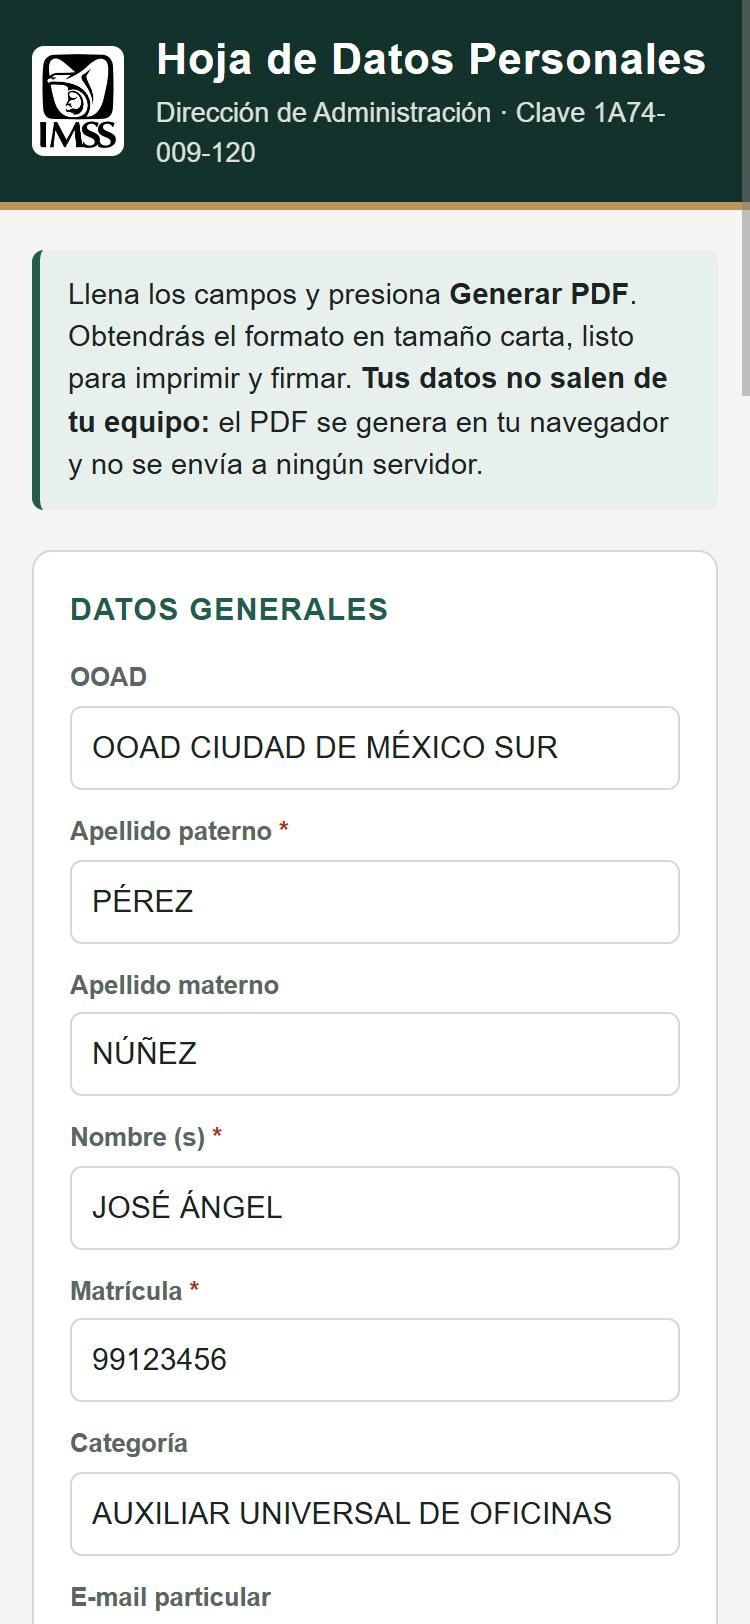
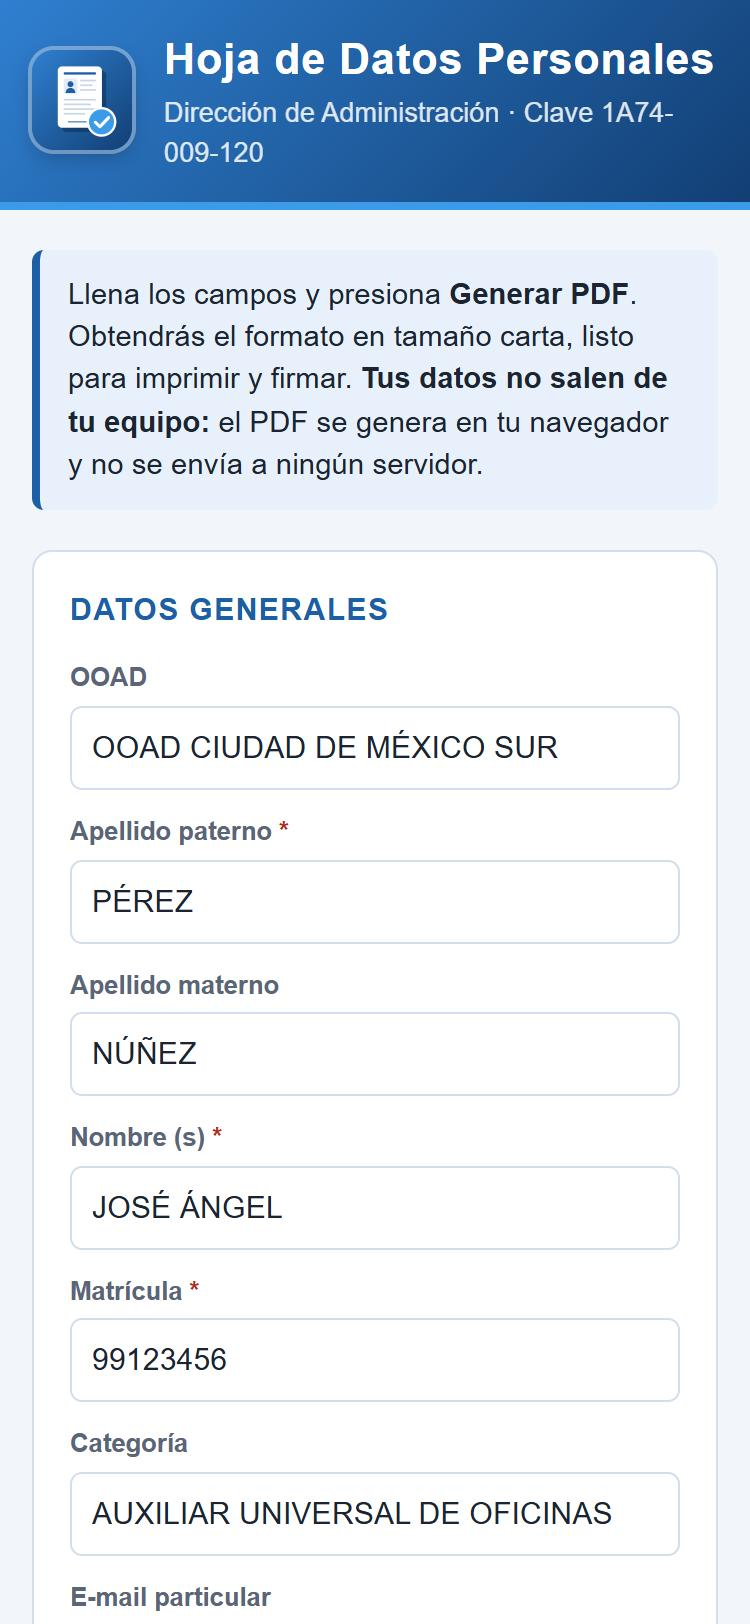
Icono del proyecto en el encabezado y captura actualizada
- El encabezado usa el icono azul (assets/logo.svg) en lugar del logo IMSS
  en blanco y negro; el logo IMSS sigue en la plantilla del PDF.
- captura-app.png con la paleta azul actual.

Changed region(s): [[0.0, 0.0, 1.0, 0.3079], [0.092, 0.3695, 0.5213, 0.4002]]

diff --git a/css/styles.css b/css/styles.css
@@ -31,7 +31,7 @@ body {
 /* ---- Encabezado ---- */
 .topbar { background: linear-gradient(135deg, var(--azul-claro), var(--azul-oscuro)); color: #fff; border-bottom: 4px solid var(--azul-brillo); }
 .topbar__inner { display: flex; align-items: center; gap: 16px; padding-top: 14px; padding-bottom: 14px; }
-.topbar__logo { width: 46px; height: auto; background: #fff; padding: 4px; border-radius: 6px; }
+.topbar__logo { width: 50px; height: 50px; flex: none; border-radius: 11px; box-shadow: 0 0 0 2px rgba(255,255,255,.35), 0 4px 10px rgba(10,30,60,.3); }
 .topbar h1 { margin: 0; font-size: 1.35rem; letter-spacing: .02em; }
 .topbar__sub { margin: 2px 0 0; font-size: .85rem; opacity: .85; }
 

diff --git a/index.html b/index.html
@@ -20,7 +20,7 @@
 <body>
   <header class="topbar">
     <div class="wrap topbar__inner">
-      <img src="assets/logo-imss.png" alt="Logo IMSS" class="topbar__logo">
+      <img src="assets/logo.svg" alt="" aria-hidden="true" class="topbar__logo">
       <div>
         <h1>Hoja de Datos Personales</h1>
         <p class="topbar__sub">Dirección de Administración · Clave 1A74-009-120</p>
